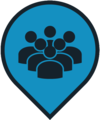
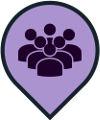
Update markers to latest iteration

diff --git a/src/flavors/ourmiami2017/static/css/custom.css b/src/flavors/ourmiami2017/static/css/custom.css
@@ -295,7 +295,7 @@ form .signed-in-as {
   background-image: url("/static/css/images/markers/noborder-ParksAndNaturalAreas.png");
 }
 [value="GreenwaysAndBlueways"]:checked + .label-text {
-  background-color: #AA93CE;
+  background-color: #1490C1;
   background-image: url("/static/css/images/markers/noborder-GreenwaysAndBlueways.png");
 }
 [value="SafeRoutesToParks"]:checked + .label-text {
@@ -303,7 +303,7 @@ form .signed-in-as {
   background-image: url("/static/css/images/markers/noborder-SafeRoutesToParks.png");
 }
 [value="PublicSpaces"]:checked + .label-text {
-  background-color: #1490C1;
+  background-color: #AA93CE;
   background-image: url("/static/css/images/markers/noborder-PublicSpaces.png");
 }
 
@@ -396,13 +396,13 @@ form .signed-in-as {
   background-color: #C3CE2F;  /* ParksAndNaturalAreas */
 }
 .access li ul li:nth-child(3) a::before {
-  background-color: #AA93CE;  /* GreenwaysAndBlueways */
+  background-color: #1490C1;  /* GreenwaysAndBlueways */
 }
 .access li ul li:nth-child(4) a::before {
   background-color: #F4C040;  /* SafeRoutesToParks */
 }
 .access li ul li:nth-child(5) a::before {
-  background-color: #1490C1;  /* PublicSpaces */
+  background-color: #AA93CE;  /* PublicSpaces */
 }
 
 #current-filter-type {
